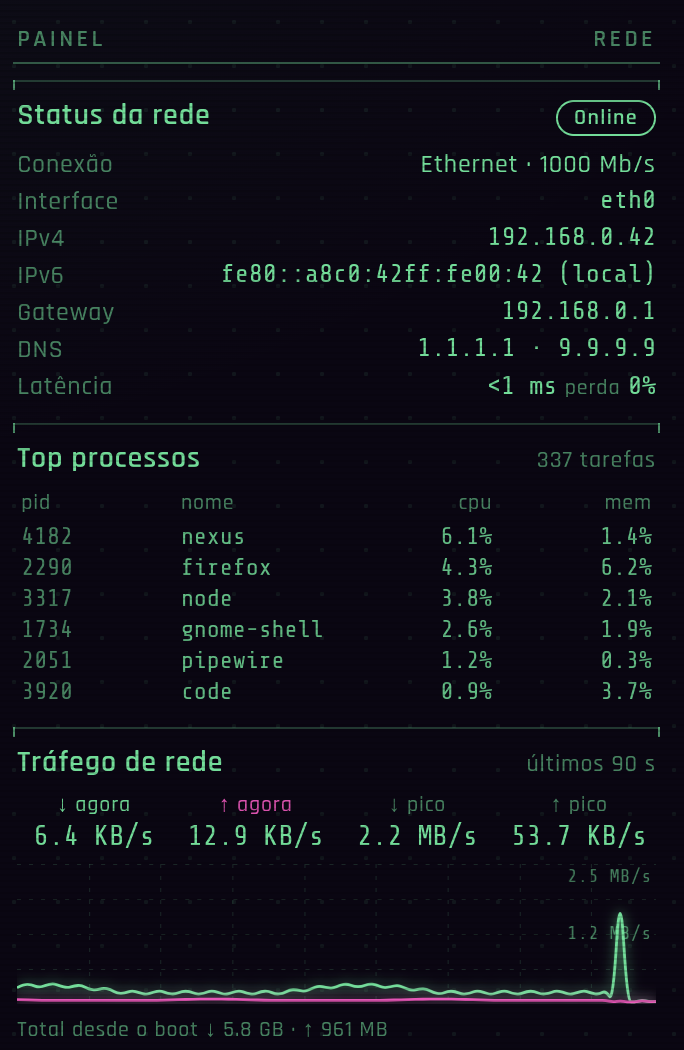
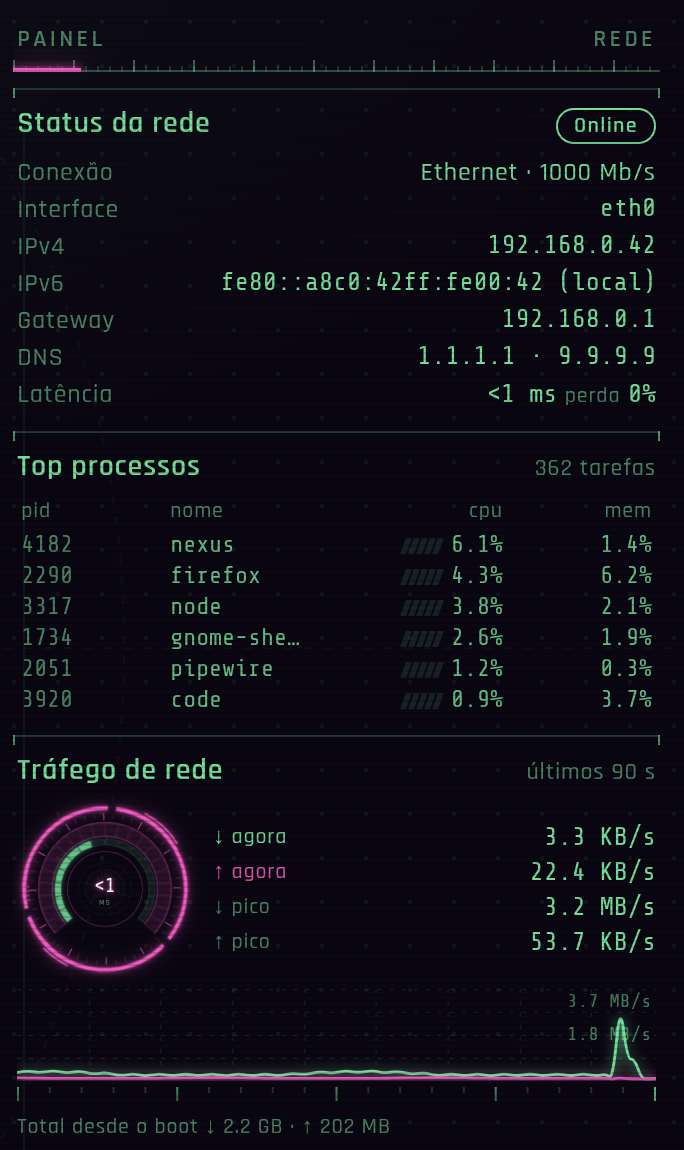
docs: capturas, demo e textos com o visual novo do HUD
Screenshots, recortes do tour e faixa dos temas regerados; demo animada
regravada. O recorte do painel de rede cresce para caber o núcleo e o
gráfico de tráfego. READMEs (inglês e português) descrevem o núcleo da CPU,
os blocos por núcleo, as faixas de memória e swap e o núcleo de tráfego.

diff --git a/scripts/details.py b/scripts/details.py
@@ -12,7 +12,7 @@ SCALE = 2  # capturas em 3200x1800
 # nome do arquivo: (captura de origem, caixa em pixels do layout 1600x900)
 CROPS = {
     "detail-system.png": ("nexus-tron.png", (0, 0, 340, 575)),
-    "detail-network.png": ("nexus-cyberpunk.png", (1258, 0, 1600, 525)),
+    "detail-network.png": ("nexus-cyberpunk.png", (1258, 0, 1600, 575)),
     "detail-keyboard.png": ("nexus-ambar.png", (735, 630, 1600, 895)),
 }
 

diff --git a/README.pt-BR.md b/README.pt-BR.md
@@ -57,7 +57,7 @@ em segurança e desempenho.
 - Painel de arquivos que segue o seu `cd`: clique numa pasta para entrar, num arquivo para colar o nome.
 
 **Painéis de sistema**
-- **CPU**: gráfico de área de 60 s, barra por núcleo, médias de 1/5/15 min, frequência e temperatura
+- **CPU**: núcleo animado (carga, com arco de aviso quando esquenta), gráfico de área de 60 s, blocos por núcleo, médias de 1/5/15 min, frequência e temperatura
   (amarelo a 70 °C, vermelho a 85 °C).
 - **Memória**: % de uso, usada, disponível, total e swap.
 - **Armazenamento e GPU**: cada disco real com usado/total; modelo e VRAM da GPU (uso e temperatura nos drivers que
@@ -101,12 +101,12 @@ em segurança e desempenho.
   </tr>
   <tr>
     <td width="50%" align="center" valign="top">
-      <img src="docs/screenshots/detail-system.png" alt="Painel de sistema: relógio, gráfico de CPU com barra por núcleo e médias de 1/5/15 min, memória e armazenamento"><br>
-      <sub><b>Sistema</b>: histórico de CPU, barra por núcleo, médias de 1/5/15 min, grade de memória, discos e GPU</sub>
+      <img src="docs/screenshots/detail-system.png" alt="Painel de sistema: relógio, núcleo da CPU com réguas de ticks e faixa de carga em blocos, gráfico de CPU, blocos por núcleo, memória e armazenamento"><br>
+      <sub><b>Sistema</b>: núcleo da CPU, histórico, blocos por núcleo, médias de 1/5/15 min, faixas de memória e swap, discos e GPU</sub>
     </td>
     <td width="50%" align="center" valign="top">
-      <img src="docs/screenshots/detail-network.png" alt="Painel de rede: conexão, IPv4, IPv6, gateway, DNS, latência, processos e gráfico de tráfego"><br>
-      <sub><b>Rede</b>: endereços completos, DNS, latência e perda de pacotes, processos e tráfego ao vivo</sub>
+      <img src="docs/screenshots/detail-network.png" alt="Painel de rede: conexão, IPv4, IPv6, gateway, DNS, latência, processos com blocos de CPU, núcleo e gráfico de tráfego"><br>
+      <sub><b>Rede</b>: endereços completos, DNS, latência e perda de pacotes, processos e um núcleo de tráfego (download por fora, upload por dentro, latência no centro)</sub>
     </td>
   </tr>
   <tr>

diff --git a/README.md b/README.md
@@ -57,7 +57,7 @@ security and performance in mind.
 - Files panel that follows your `cd`: click a folder to enter it, click a file to paste its name.
 
 **System panels**
-- **CPU**: 60 s area chart, per-core bars, 1/5/15 min averages, frequency and temperature
+- **CPU**: animated core gauge (load, with a warning arc when it runs hot), 60 s area chart, segmented per-core bars, 1/5/15 min averages, frequency and temperature
   (yellow at 70 °C, red at 85 °C).
 - **Memory**: usage %, used, available, total and swap.
 - **Storage and GPU**: every real disk with used/total; GPU model and VRAM (usage and temperature on drivers that
@@ -102,12 +102,12 @@ security and performance in mind.
   </tr>
   <tr>
     <td width="50%" align="center" valign="top">
-      <img src="docs/screenshots/detail-system.png" alt="System panel: clock, CPU chart with per-core bars and 1/5/15 min averages, memory and storage"><br>
-      <sub><b>System</b>: CPU history, per-core bars, 1/5/15 min averages, memory dot grid, disks and GPU</sub>
+      <img src="docs/screenshots/detail-system.png" alt="System panel: clock, CPU core gauge with tick rings and segmented load band, CPU chart, segmented per-core bars, memory and storage"><br>
+      <sub><b>System</b>: CPU core gauge, history, segmented per-core bars, 1/5/15 min averages, memory and swap bands, disks and GPU</sub>
     </td>
     <td width="50%" align="center" valign="top">
-      <img src="docs/screenshots/detail-network.png" alt="Network panel: connection, IPv4, IPv6, gateway, DNS, latency, top processes and traffic chart"><br>
-      <sub><b>Network</b>: full addresses, DNS, latency and packet loss, top processes and live traffic</sub>
+      <img src="docs/screenshots/detail-network.png" alt="Network panel: connection, IPv4, IPv6, gateway, DNS, latency, top processes with CPU blocks, traffic gauge and chart"><br>
+      <sub><b>Network</b>: full addresses, DNS, latency and packet loss, top processes and a traffic gauge (download outside, upload inside, latency in the middle)</sub>
     </td>
   </tr>
   <tr>
